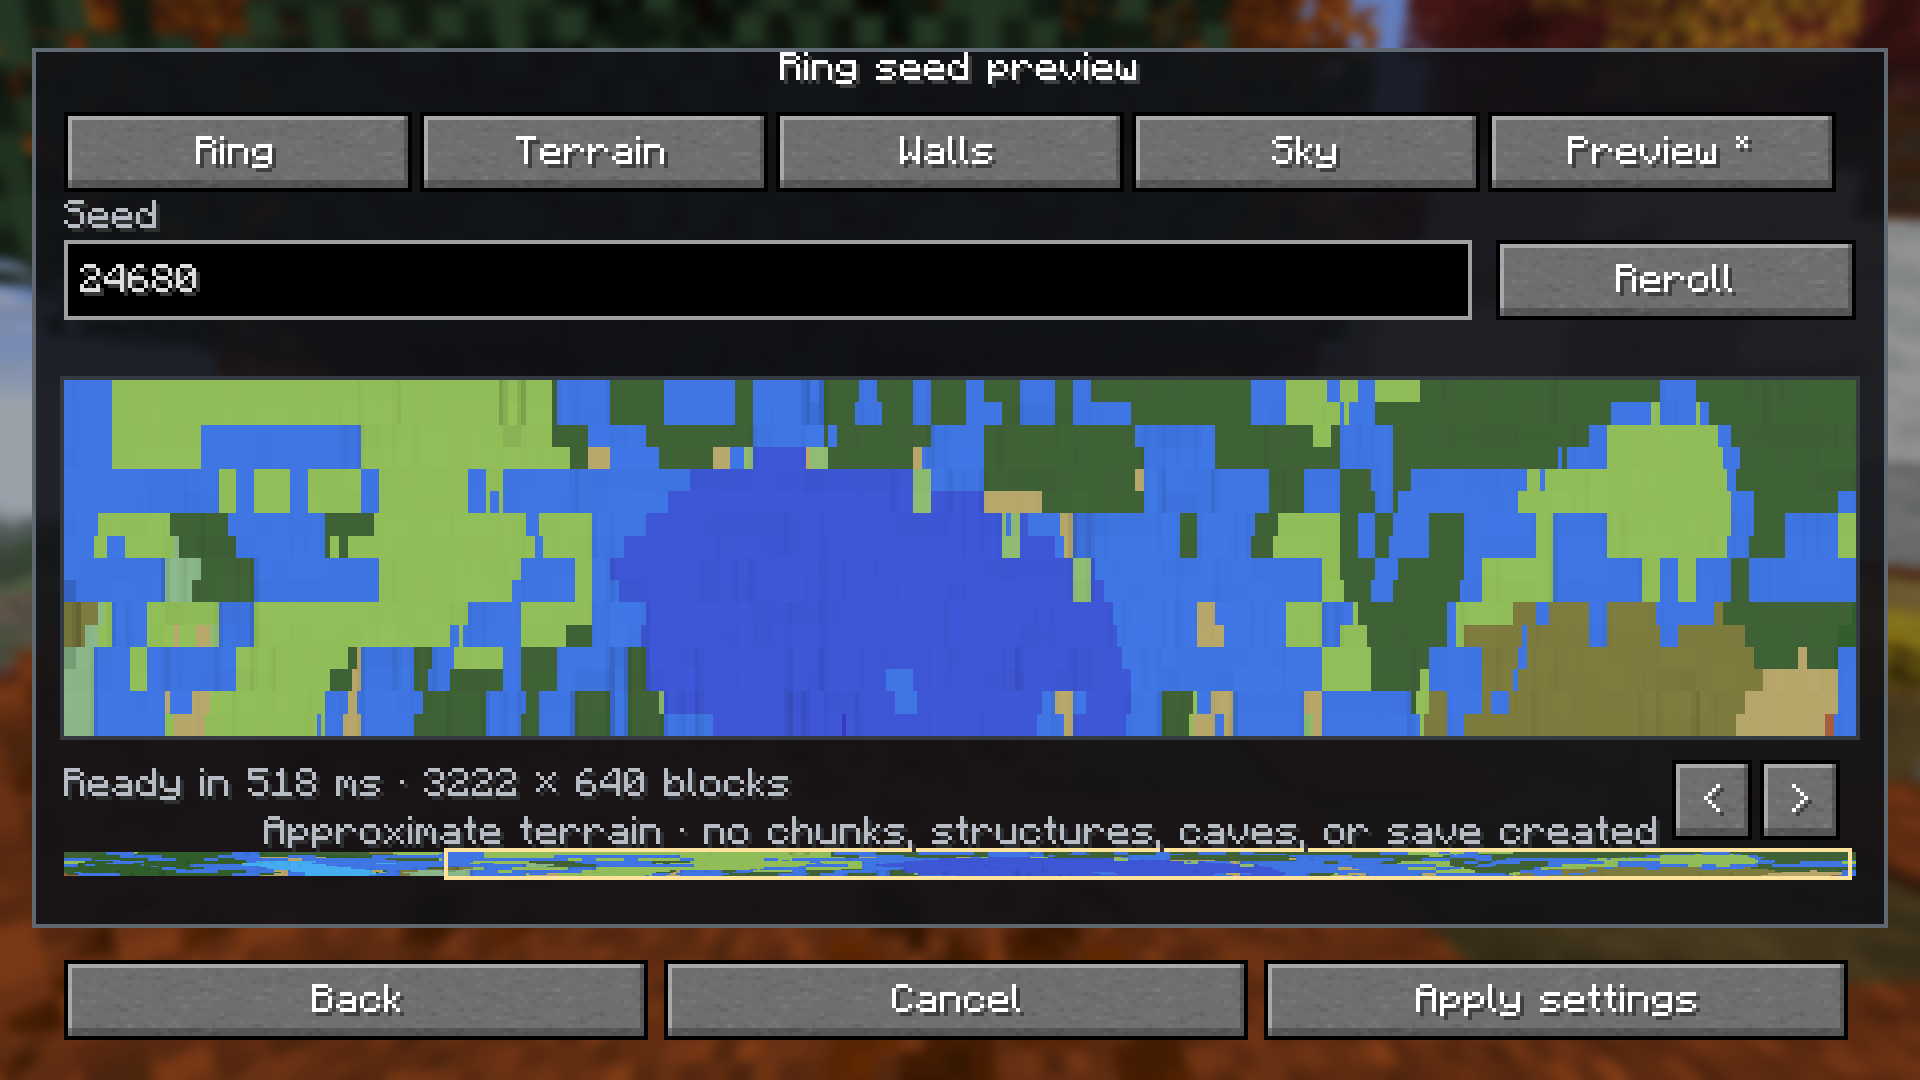
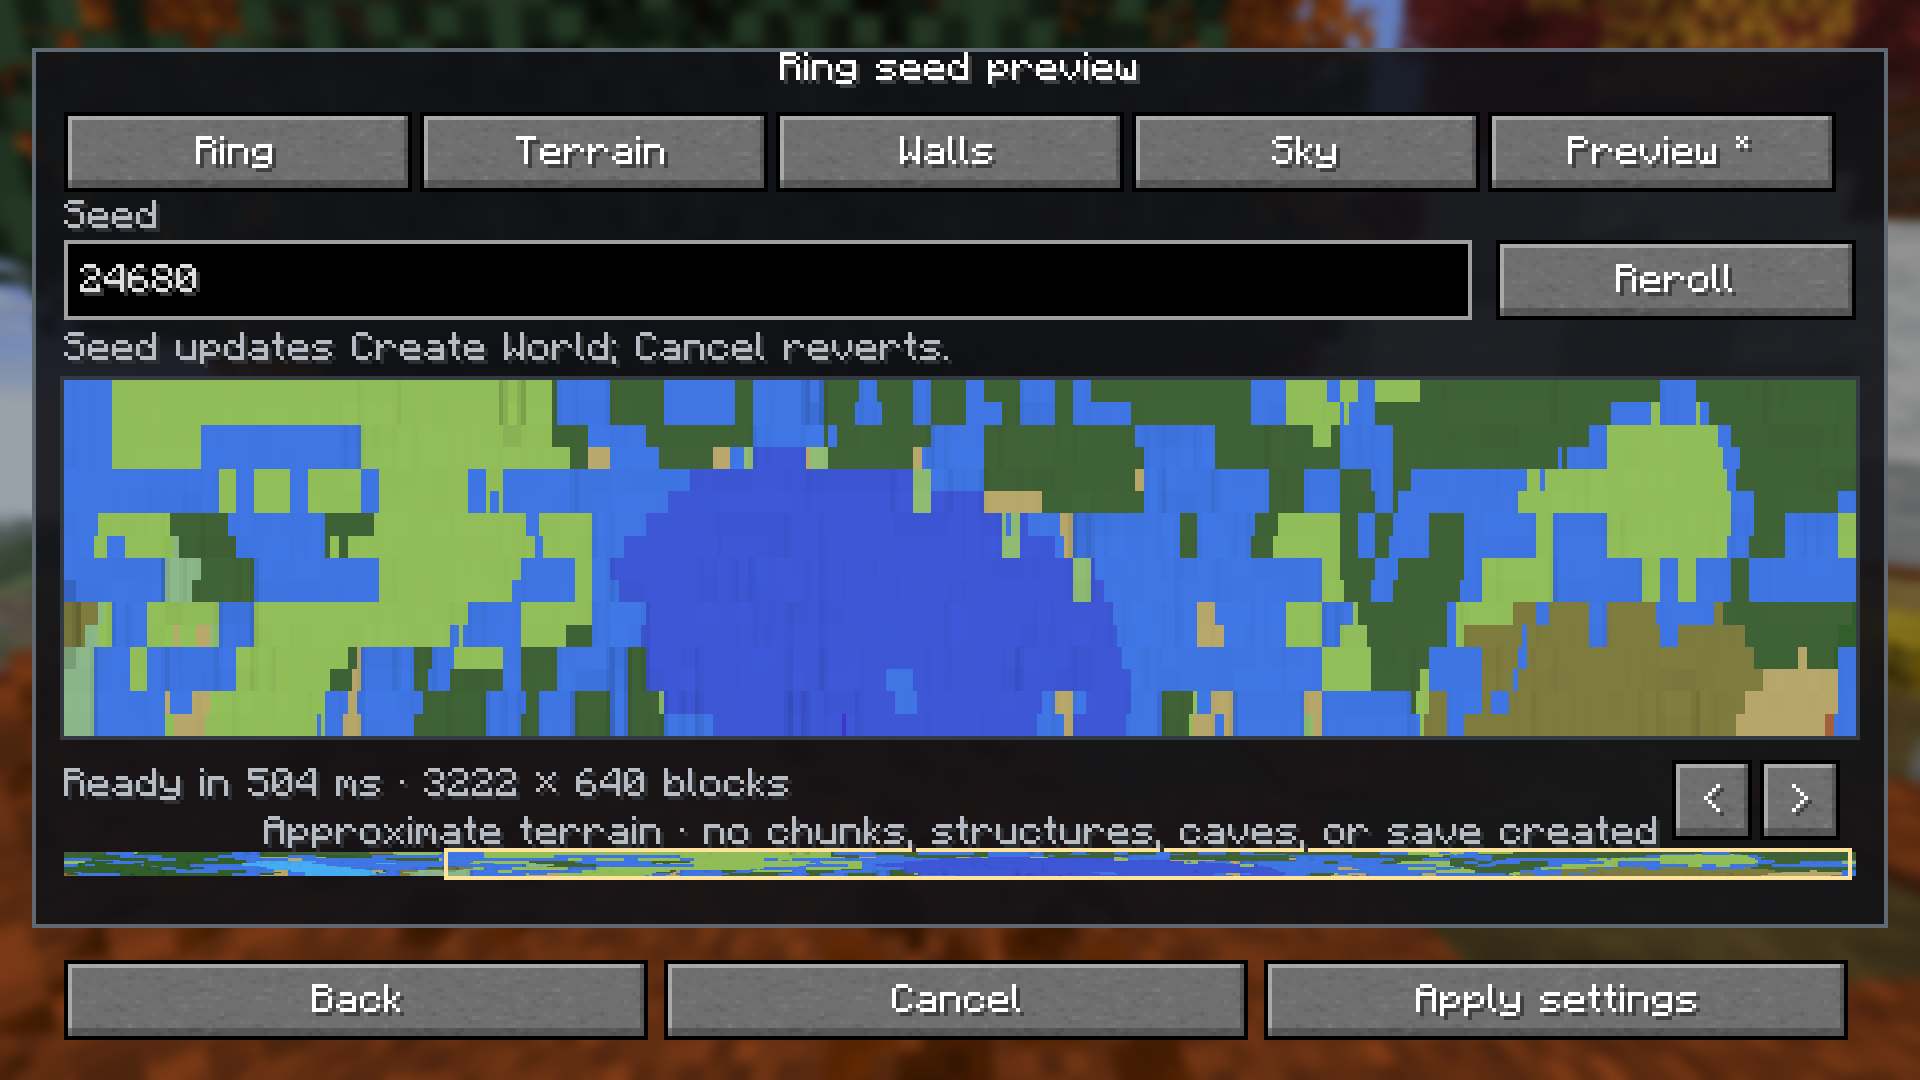
Sync preview seed with Create World and restore on cancel

diff --git a/docs/media/ring-generation-ui-implemented/index.html b/docs/media/ring-generation-ui-implemented/index.html
@@ -1,4 +1,4 @@
-<!doctype html><html lang="en"><meta charset="utf-8"><meta name="viewport" content="width=device-width, initial-scale=1"><title>RingWorld UI implementation · 1.4 development</title><style>body{margin:0;background:#14201e;color:#e4eee5;font:16px/1.5 system-ui,sans-serif}main{max-width:1200px;margin:auto;padding:36px 22px 70px}h1{font-size:clamp(28px,4vw,52px);line-height:1.1;margin:0 0 12px}p{color:#b5c9bb;max-width:850px}a{color:#acd38c}.grid{display:grid;grid-template-columns:repeat(auto-fit,minmax(350px,1fr));gap:24px;margin-top:28px}figure{margin:0;background:#263630;padding:9px}img{display:block;width:100%;height:auto;image-rendering:pixelated}figcaption{padding:9px 4px 3px;font-weight:600}</style><main><p>RingWorld · 1.4 development</p><h1>Implemented generation UI</h1><p>Actual Minecraft 26.3 Fabric captures, not proposal mockups. The creation fixture uses a custom 4096 × 640 test draft; its values are not factory defaults. The in-world capture uses a small automated test ring. Click any image for full resolution.</p><div class="grid"><figure><a href="creation-ui-20-new-ring.png"><img loading="lazy" src="creation-ui-20-new-ring.png" alt="Ring screen"></a><figcaption>Ring</figcaption></figure>
+<!doctype html><html lang="en"><meta charset="utf-8"><meta name="viewport" content="width=device-width, initial-scale=1"><title>RingWorld UI implementation · 1.4 development</title><style>body{margin:0;background:#14201e;color:#e4eee5;font:16px/1.5 system-ui,sans-serif}main{max-width:1200px;margin:auto;padding:36px 22px 70px}h1{font-size:clamp(28px,4vw,52px);line-height:1.1;margin:0 0 12px}p{color:#b5c9bb;max-width:850px}a{color:#acd38c}.grid{display:grid;grid-template-columns:repeat(auto-fit,minmax(350px,1fr));gap:24px;margin-top:28px}figure{margin:0;background:#263630;padding:9px}img{display:block;width:100%;height:auto;image-rendering:pixelated}figcaption{padding:9px 4px 3px;font-weight:600}</style><main><p>RingWorld · 1.4 development</p><h1>Implemented generation UI</h1><p>Actual Minecraft 26.3 Fabric captures, not proposal mockups. The creation fixture uses a custom 4096 × 640 test draft; its values are not factory defaults. The seed shown in Preview updates the vanilla Create World seed field immediately; Cancel restores the previous seed. The in-world capture uses a small automated test ring. Click any image for full resolution.</p><div class="grid"><figure><a href="creation-ui-20-new-ring.png"><img loading="lazy" src="creation-ui-20-new-ring.png" alt="Ring screen"></a><figcaption>Ring</figcaption></figure>
 <figure><a href="creation-ui-21-new-terrain.png"><img loading="lazy" src="creation-ui-21-new-terrain.png" alt="Terrain screen"></a><figcaption>Terrain</figcaption></figure>
 <figure><a href="creation-ui-22-new-walls.png"><img loading="lazy" src="creation-ui-22-new-walls.png" alt="Walls screen"></a><figcaption>Walls</figcaption></figure>
 <figure><a href="creation-ui-23-new-sky.png"><img loading="lazy" src="creation-ui-23-new-sky.png" alt="Sky screen"></a><figcaption>Sky</figcaption></figure>

diff --git a/src/client/java/dev/ringworld/client/RingWorldEditorScreen.java b/src/client/java/dev/ringworld/client/RingWorldEditorScreen.java
@@ -19,7 +19,7 @@ import net.minecraft.network.chat.Component;
 import net.minecraft.resources.Identifier;
 import net.minecraft.world.level.levelgen.WorldOptions;
 
-/** One draft for the five new-world pages. Only Apply writes to the parent screen. */
+/** One draft for the five new-world pages; the seed mirrors Create World and Cancel restores it. */
 public final class RingWorldEditorScreen extends Screen {
     private static final int PANEL = 0xE0172226;
     private static final int BORDER = 0xFF64776D;
@@ -82,7 +82,7 @@ public final class RingWorldEditorScreen extends Screen {
     @Override
     protected void init() {
         // Draft strings are updated by responders. Rebuilding after resize never
-        // reads stale widgets or silently commits the seed to vanilla.
+        // reads stale widgets or changes the seed while rebuilding controls.
         circumferenceField = widthField = wallHeightField = null;
         thicknessField = decayField = null;
         monumentButton = null;
@@ -296,7 +296,10 @@ public final class RingWorldEditorScreen extends Screen {
     }
 
     String draftSeed() { return seed; }
-    void setDraftSeed(String value) { seed = value; }
+    void setDraftSeed(String value) {
+        seed = value;
+        owner.ringworld$setSeedText(value);
+    }
     long resolvedDraftSeed() {
         return WorldOptions.parseSeed(seed).orElseGet(owner::ringworld$resolvedSeed);
     }
@@ -386,7 +389,11 @@ public final class RingWorldEditorScreen extends Screen {
 
     private void confirmRestore() {
         RingMinecraftClientAccess.setScreen(minecraft, new ConfirmScreen(confirmed -> {
-            if (confirmed) { load(RingWorldConfig.load()); seed = originalSeed; notice = ""; }
+            if (confirmed) {
+                load(RingWorldConfig.load());
+                setDraftSeed(originalSeed);
+                notice = "";
+            }
             RingMinecraftClientAccess.setScreen(minecraft, this);
         }, Component.literal("Restore saved settings?"),
                 Component.literal("Replace this draft with the saved RingWorld settings?"),
@@ -397,6 +404,7 @@ public final class RingWorldEditorScreen extends Screen {
     public void onClose() {
         if (!dirty()) { RingMinecraftClientAccess.setScreen(minecraft, parent); return; }
         RingMinecraftClientAccess.setScreen(minecraft, new ConfirmScreen(confirmed -> {
+            if (confirmed) owner.ringworld$setSeedText(originalSeed);
             RingMinecraftClientAccess.setScreen(minecraft, confirmed ? parent : this);
         }, Component.literal("Discard changes?"),
                 Component.literal("Discard changes to RingWorld settings and the seed?"),

diff --git a/src/client/java/dev/ringworld/client/RingWorldCreationUiTestClient.java b/src/client/java/dev/ringworld/client/RingWorldCreationUiTestClient.java
@@ -524,7 +524,7 @@ public final class RingWorldCreationUiTestClient {
             preview.ringworld$automationDone();
             if (!(RingMinecraftClientAccess.screen(client) instanceof RingWorldEditorScreen editor)
                     || !editor.ringworld$automationDraftSeedIs("24680")
-                    || !editor.ringworld$automationParentSeedIs("67890")
+                    || !editor.ringworld$automationParentSeedIs("24680")
                     || !(RingMinecraftClientAccess.screen(client) instanceof RingWorldEditorScreen)) {
                 fail(client, "new preview seed did not return as a draft"); return;
             }
@@ -550,6 +550,28 @@ public final class RingWorldCreationUiTestClient {
                 || !(screen instanceof RingWorldCreationScreen.LayoutButtonOwner owner)
                 || !"24680".equals(owner.ringworld$seedText())) {
             fail(client, "new Apply did not commit the preview seed and return to Create World");
+            return;
+        }
+        owner.ringworld$openNewEditorForAutomation();
+        if (!(RingMinecraftClientAccess.screen(client) instanceof RingWorldEditorScreen editor)) {
+            fail(client, "could not reopen the editor to check seed cancellation");
+            return;
+        }
+        editor.setDraftSeed("13579");
+        if (!"13579".equals(owner.ringworld$seedText())) {
+            fail(client, "editing the preview seed did not update Create World immediately");
+            return;
+        }
+        editor.onClose();
+        if (!(RingMinecraftClientAccess.screen(client) instanceof ConfirmScreen confirm)) {
+            fail(client, "cancel did not ask to discard the changed seed");
+            return;
+        }
+        ((ConfirmScreenAccessor)confirm).ringworld$yesButton()
+                .onPress(RingWorldCreationScreen.AutomationInput.INSTANCE);
+        if (RingMinecraftClientAccess.screen(client) != screen
+                || !"24680".equals(owner.ringworld$seedText())) {
+            fail(client, "discarding the editor did not restore the original Create World seed");
             return;
         }
         capture(client, "creation-ui-26-new-footer-applied");

diff --git a/src/client/java/dev/ringworld/client/RingSeedPreviewScreen.java b/src/client/java/dev/ringworld/client/RingSeedPreviewScreen.java
@@ -313,6 +313,9 @@ public final class RingSeedPreviewScreen extends Screen {
                 0xFFFFFFFF);
         graphics.text(font, Component.literal("Seed"), left + 8,
                 editor == null ? 41 : 50, LABEL_COLOR);
+        if (editor != null) graphics.text(font,
+                Component.literal("Seed updates Create World; Cancel reverts."),
+                left + 8, 83, LABEL_COLOR);
 
         int mapLeft = left + 8;
         int mapRight = left + panelWidth - 8;

diff --git a/src/versions/26.3/client/java/dev/ringworld/client/RingSeedPreviewScreen.java b/src/versions/26.3/client/java/dev/ringworld/client/RingSeedPreviewScreen.java
@@ -313,6 +313,9 @@ public final class RingSeedPreviewScreen extends Screen {
                 0xFFFFFFFF);
         graphics.text(font, Component.literal("Seed"), left + 8,
                 editor == null ? 41 : 50, LABEL_COLOR);
+        if (editor != null) graphics.text(font,
+                Component.literal("Seed updates Create World; Cancel reverts."),
+                left + 8, 83, LABEL_COLOR);
 
         int mapLeft = left + 8;
         int mapRight = left + panelWidth - 8;

diff --git a/docs/RELEASE_1_4_NOTES.md b/docs/RELEASE_1_4_NOTES.md
@@ -62,8 +62,10 @@ implementation. No Distant Horizons code was copied.
 
 The owner approved the [rendered proposal](design/ring-generation-ui-proposal/index.html).
 The normal Create World entry now opens one RingWorld draft with Ring, Terrain,
-Walls, Sky and Preview tabs. Apply saves the whole draft once, including the
-seed; Cancel and Restore saved settings have separate confirmation flows.
+Walls, Sky and Preview tabs. Ring layout and options save on Apply. A seed
+entered in Preview immediately updates vanilla Create World; cancelling the
+editor restores the seed that was there when it opened. Restore saved settings
+has its own confirmation flow.
 The Walls tab shows the selected material/pattern sample and keeps the three
 patterns visible. The seed preview adds a correctly proportioned local section
 and a full-ring navigation strip. The in-world panel separates authoritative
